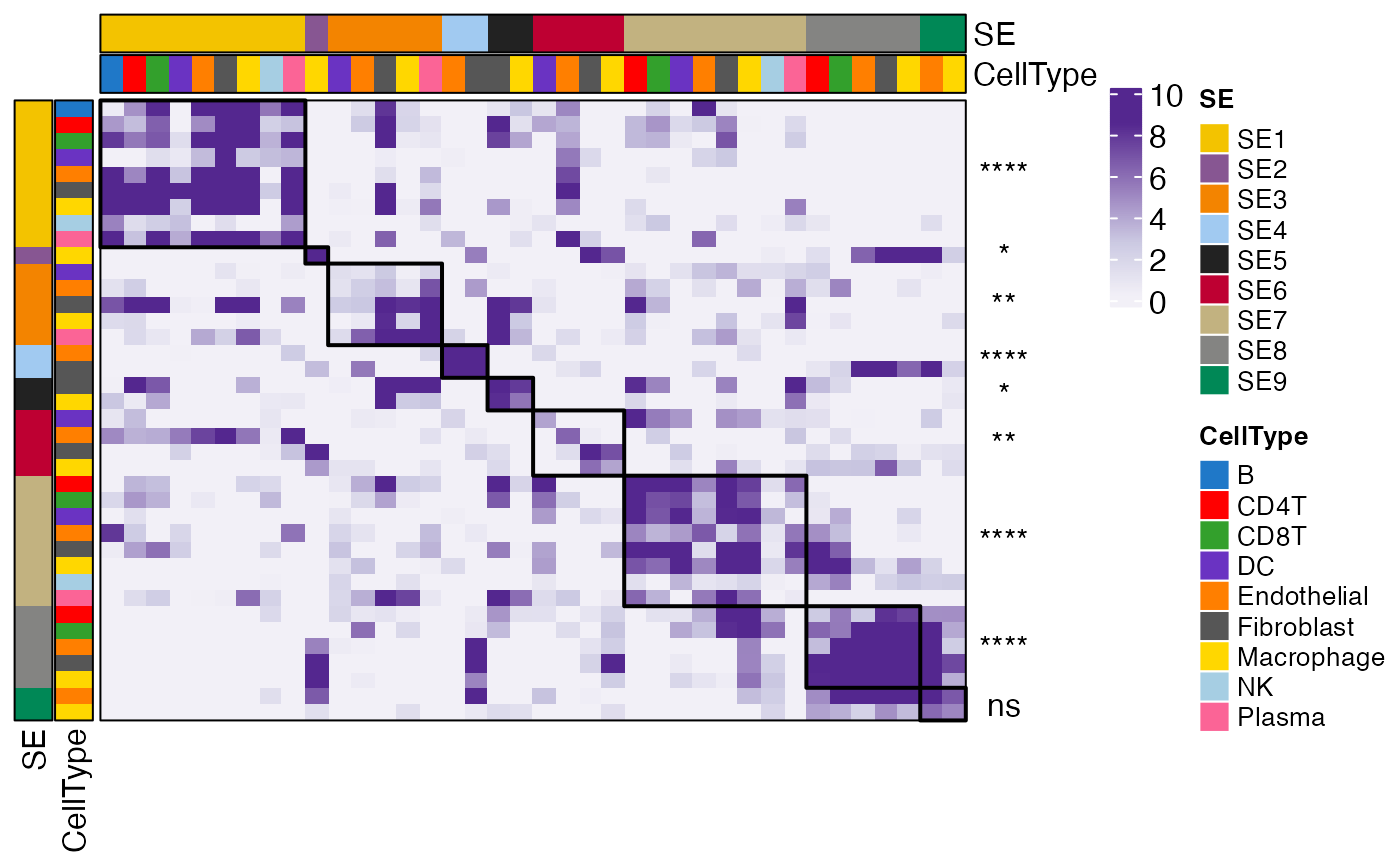
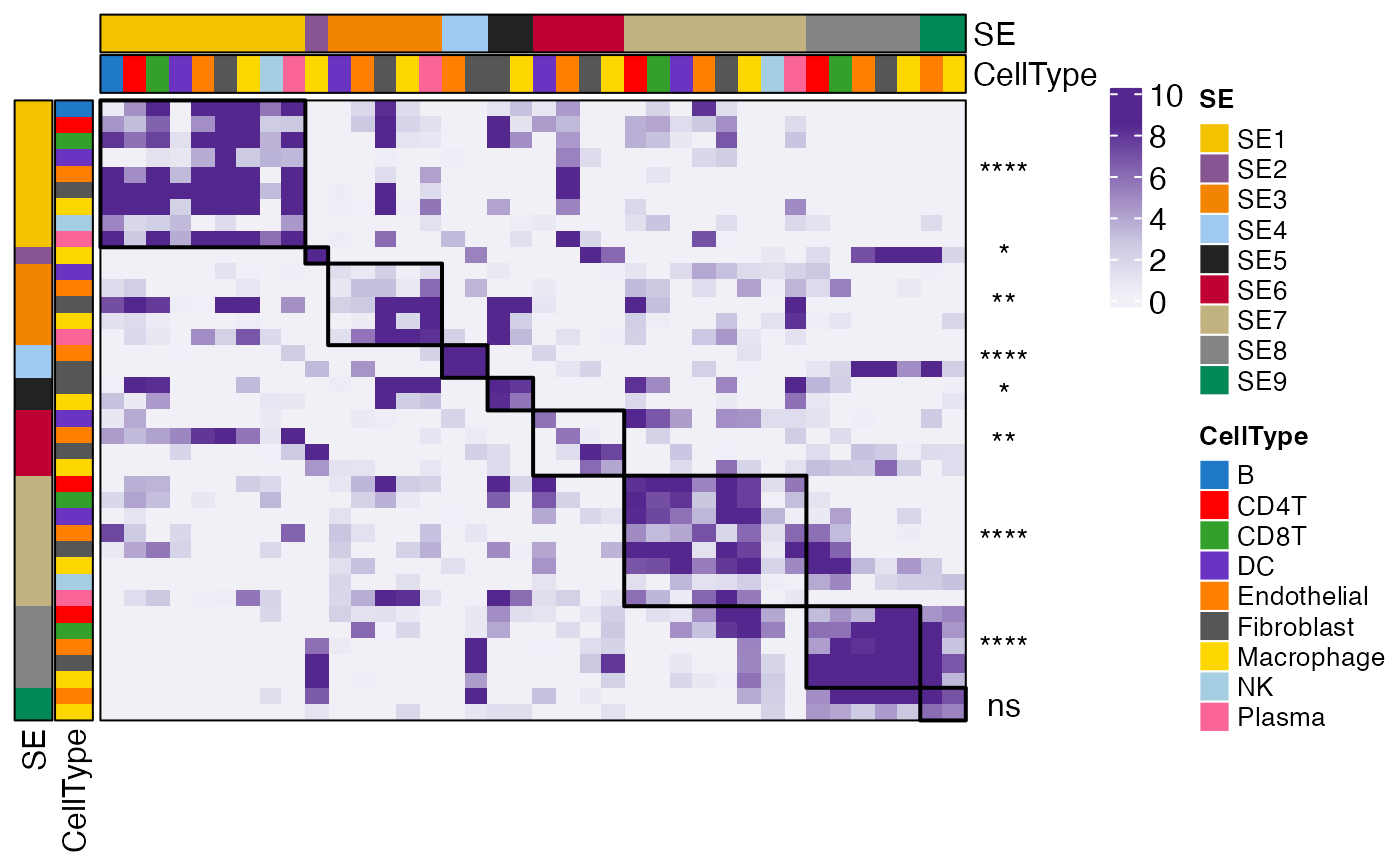
revise the Colocalization function to be more flexible - require CellState as input instead of SE

diff --git a/docs/articles/Recovery_scST.html b/docs/articles/Recovery_scST.html
@@ -274,48 +274,56 @@ of cell state colocalization within each SE and returns a vector of
 p-values.</p>
 <div class="sourceCode" id="cb15"><pre class="downlit sourceCode r">
 <code class="sourceCode R"><span><span class="co"># Verify the four columns required for the analysis.</span></span>
-<span><span class="fu"><a href="https://rdrr.io/r/utils/head.html" class="external-link">head</a></span><span class="op">(</span><span class="va">scmeta</span><span class="op">[</span>, <span class="fu"><a href="https://rdrr.io/r/base/c.html" class="external-link">c</a></span><span class="op">(</span><span class="st">"X"</span>, <span class="st">"Y"</span>, <span class="st">"SE"</span>, <span class="st">"CellType"</span><span class="op">)</span><span class="op">]</span><span class="op">)</span></span></code></pre></div>
-<pre><code><span><span class="co">##                                            X         Y    SE   CellType</span></span>
-<span><span class="co">## HumanColonCancerPatient2__cell_1085 5057.912 -1721.871   SE9 Macrophage</span></span>
-<span><span class="co">## HumanColonCancerPatient2__cell_1205 5035.339 -1783.352 NonSE Macrophage</span></span>
-<span><span class="co">## HumanColonCancerPatient2__cell_1312 5012.093 -1908.390   SE9 Macrophage</span></span>
-<span><span class="co">## HumanColonCancerPatient2__cell_1625 5073.743 -1861.740   SE6 Macrophage</span></span>
-<span><span class="co">## HumanColonCancerPatient2__cell_1629 5030.235 -1867.441   SE7 Macrophage</span></span>
-<span><span class="co">## HumanColonCancerPatient2__cell_1639 5020.448 -1882.751   SE9 Macrophage</span></span></code></pre>
+<span><span class="va">scmeta</span><span class="op">$</span><span class="va">CellState</span> <span class="op">=</span> <span class="fu"><a href="https://rdrr.io/r/base/paste.html" class="external-link">paste0</a></span><span class="op">(</span><span class="va">scmeta</span><span class="op">$</span><span class="va">SE</span>, <span class="st">"_"</span>, <span class="va">scmeta</span><span class="op">$</span><span class="va">CellType</span><span class="op">)</span></span>
+<span><span class="fu"><a href="https://rdrr.io/r/utils/head.html" class="external-link">head</a></span><span class="op">(</span><span class="va">scmeta</span><span class="op">[</span>, <span class="fu"><a href="https://rdrr.io/r/base/c.html" class="external-link">c</a></span><span class="op">(</span><span class="st">"X"</span>, <span class="st">"Y"</span>, <span class="st">"CellType"</span>, <span class="st">"CellState"</span><span class="op">)</span><span class="op">]</span><span class="op">)</span></span></code></pre></div>
+<pre><code><span><span class="co">##                                            X         Y   CellType</span></span>
+<span><span class="co">## HumanColonCancerPatient2__cell_1085 5057.912 -1721.871 Macrophage</span></span>
+<span><span class="co">## HumanColonCancerPatient2__cell_1205 5035.339 -1783.352 Macrophage</span></span>
+<span><span class="co">## HumanColonCancerPatient2__cell_1312 5012.093 -1908.390 Macrophage</span></span>
+<span><span class="co">## HumanColonCancerPatient2__cell_1625 5073.743 -1861.740 Macrophage</span></span>
+<span><span class="co">## HumanColonCancerPatient2__cell_1629 5030.235 -1867.441 Macrophage</span></span>
+<span><span class="co">## HumanColonCancerPatient2__cell_1639 5020.448 -1882.751 Macrophage</span></span>
+<span><span class="co">##                                            CellState</span></span>
+<span><span class="co">## HumanColonCancerPatient2__cell_1085   SE9_Macrophage</span></span>
+<span><span class="co">## HumanColonCancerPatient2__cell_1205 NonSE_Macrophage</span></span>
+<span><span class="co">## HumanColonCancerPatient2__cell_1312   SE9_Macrophage</span></span>
+<span><span class="co">## HumanColonCancerPatient2__cell_1625   SE6_Macrophage</span></span>
+<span><span class="co">## HumanColonCancerPatient2__cell_1629   SE7_Macrophage</span></span>
+<span><span class="co">## HumanColonCancerPatient2__cell_1639   SE9_Macrophage</span></span></code></pre>
 <div class="sourceCode" id="cb17"><pre class="downlit sourceCode r">
 <code class="sourceCode R"><span><span class="co">## For quick test run, 100 permutations were performed to compute the colocalization scores.</span></span>
 <span><span class="va">coloc_res</span> <span class="op">=</span> <span class="fu"><a href="../reference/Colocalization.html">Colocalization</a></span><span class="op">(</span><span class="va">scmeta</span>, coords <span class="op">=</span> <span class="fu"><a href="https://rdrr.io/r/base/c.html" class="external-link">c</a></span><span class="op">(</span><span class="st">"X"</span>, <span class="st">"Y"</span><span class="op">)</span>, </span>
-<span>                           SE <span class="op">=</span> <span class="st">"SE"</span>, CellType <span class="op">=</span> <span class="st">"CellType"</span>,</span>
-<span>                           radius <span class="op">=</span> <span class="fl">50</span>, </span>
+<span>                           CellType <span class="op">=</span> <span class="st">"CellType"</span>,</span>
+<span>                           CellState <span class="op">=</span> <span class="st">"CellState"</span>, </span>
 <span>                           nperm <span class="op">=</span> <span class="fl">100</span>, <span class="co">## 1000 or higher is recommended.</span></span>
 <span>                           test <span class="op">=</span> <span class="cn">TRUE</span>, </span>
 <span>                           ncores <span class="op">=</span> <span class="fl">8</span><span class="op">)</span></span>
 <span><span class="fu"><a href="https://rdrr.io/r/utils/head.html" class="external-link">head</a></span><span class="op">(</span><span class="va">coloc_res</span><span class="op">$</span><span class="va">ColocIndex</span><span class="op">[</span>, <span class="fl">1</span><span class="op">:</span><span class="fl">5</span><span class="op">]</span><span class="op">)</span> <span class="co">## Matrix of colocalization indices between all cell states</span></span></code></pre></div>
-<pre><code><span><span class="co">##                        NonSE_B NonSE_CD4T  NonSE_CD8T   NonSE_DC</span></span>
-<span><span class="co">## NonSE_B             3.34650540 -0.2707164  -3.3502960 -2.7004132</span></span>
-<span><span class="co">## NonSE_CD4T         -0.01287549  2.4311625  -0.8906792 -2.4219334</span></span>
-<span><span class="co">## NonSE_CD8T         -3.13047262 -0.9903922   0.9924283 -2.1475396</span></span>
-<span><span class="co">## NonSE_DC           -2.70951074 -1.9805514  -1.7645476 -0.9794100</span></span>
-<span><span class="co">## NonSE_Endothelial  -1.89724493  1.9774770  -2.1187192  0.9487738</span></span>
-<span><span class="co">## NonSE_Fibroblast  -15.73885563 -2.1847363 -11.3861232  5.1847945</span></span>
+<pre><code><span><span class="co">##                       NonSE_B NonSE_CD4T  NonSE_CD8T  NonSE_DC</span></span>
+<span><span class="co">## NonSE_B             3.5357690 -0.3461065  -2.9449435 -2.722332</span></span>
+<span><span class="co">## NonSE_CD4T         -0.1154154  2.6900657  -0.9080578 -2.340889</span></span>
+<span><span class="co">## NonSE_CD8T         -2.7959631 -1.1275078   1.0467316 -2.289518</span></span>
+<span><span class="co">## NonSE_DC           -2.6631219 -2.0043363  -1.8858252 -1.510015</span></span>
+<span><span class="co">## NonSE_Endothelial  -2.0697733  2.2536112  -2.0176024  1.037851</span></span>
+<span><span class="co">## NonSE_Fibroblast  -14.7564658 -1.7528026 -11.2626831  5.320646</span></span>
 <span><span class="co">##                   NonSE_Endothelial</span></span>
-<span><span class="co">## NonSE_B                   -2.023285</span></span>
-<span><span class="co">## NonSE_CD4T                 2.219099</span></span>
-<span><span class="co">## NonSE_CD8T                -1.793770</span></span>
-<span><span class="co">## NonSE_DC                   1.190721</span></span>
-<span><span class="co">## NonSE_Endothelial          4.142804</span></span>
-<span><span class="co">## NonSE_Fibroblast          10.712091</span></span></code></pre>
+<span><span class="co">## NonSE_B                   -2.197725</span></span>
+<span><span class="co">## NonSE_CD4T                 2.310458</span></span>
+<span><span class="co">## NonSE_CD8T                -1.776670</span></span>
+<span><span class="co">## NonSE_DC                   1.353129</span></span>
+<span><span class="co">## NonSE_Endothelial          3.785008</span></span>
+<span><span class="co">## NonSE_Fibroblast          11.007910</span></span></code></pre>
 <div class="sourceCode" id="cb19"><pre class="downlit sourceCode r">
 <code class="sourceCode R"><span><span class="va">coloc_res</span><span class="op">$</span><span class="va">Pval</span> <span class="co">## Vector of p-values for colocalization significance</span></span></code></pre></div>
 <pre><code><span><span class="co">##        NonSE          SE1          SE2          SE3          SE4          SE5 </span></span>
-<span><span class="co">## 3.016923e-01 3.936888e-06 2.308056e-02 4.946580e-03 1.421065e-12 2.451790e-02 </span></span>
+<span><span class="co">## 2.516621e-01 2.453852e-06 4.506617e-02 6.097215e-03 1.885753e-12 2.205467e-02 </span></span>
 <span><span class="co">##          SE6          SE7          SE8          SE9 </span></span>
-<span><span class="co">## 3.279394e-03 6.543934e-05 6.385358e-05 9.773195e-02 </span></span>
+<span><span class="co">## 2.574582e-03 5.907252e-05 6.056832e-05 1.175217e-01 </span></span>
 <span><span class="co">## attr(,"Zscore")</span></span>
 <span><span class="co">##    NonSE      SE1      SE2      SE3      SE4      SE5      SE6      SE7 </span></span>
-<span><span class="co">## 1.032811 4.614687 2.272098 2.810492 7.081983 2.248915 2.940258 3.992286 </span></span>
+<span><span class="co">## 1.146322 4.711927 2.004036 2.742507 7.042681 2.289425 3.014435 4.016485 </span></span>
 <span><span class="co">##      SE8      SE9 </span></span>
-<span><span class="co">## 3.998098 1.655950</span></span></code></pre>
+<span><span class="co">## 4.010586 1.565261</span></span></code></pre>
 <p>The <a href="../reference/ColocalizationMetaAnalysis.html">ColocalizationMetaAnalysis</a>
 function can be used to perform meta-analysis of cell-state
 colocalization results across samples. It applies Stouffer’s method to
@@ -331,20 +339,20 @@ matrix and a meta P value for each SE.</p>
 <span></span>
 <span><span class="co"># Integrated matrix of cell-state colocalization indices</span></span>
 <span><span class="fu"><a href="https://rdrr.io/r/utils/head.html" class="external-link">head</a></span><span class="op">(</span><span class="va">meta_coloc_res</span><span class="op">$</span><span class="va">MetaColocIndex</span><span class="op">[</span>, <span class="fl">1</span><span class="op">:</span><span class="fl">5</span><span class="op">]</span><span class="op">)</span></span></code></pre></div>
-<pre><code><span><span class="co">##                       NonSE_B NonSE_CD4T NonSE_CD8T  NonSE_DC NonSE_Endothelial</span></span>
-<span><span class="co">## NonSE_B            5.07247839 -0.2903617  -4.432384 -3.711020         -2.932193</span></span>
-<span><span class="co">## NonSE_CD4T         0.08293172  3.3141932  -1.189924 -3.184232          3.355418</span></span>
-<span><span class="co">## NonSE_CD8T        -4.14518968 -1.3311298   1.452172 -2.971578         -2.535319</span></span>
-<span><span class="co">## NonSE_DC          -3.66863721 -2.6905039  -2.429048 -1.394476          1.527815</span></span>
-<span><span class="co">## NonSE_Endothelial -2.81857717  2.9869371  -3.005599  1.220219          5.954284</span></span>
-<span><span class="co">## NonSE_Fibroblast  -7.07106731 -3.0606581  -7.071067  7.071067          7.071067</span></span></code></pre>
+<pre><code><span><span class="co">##                      NonSE_B NonSE_CD4T NonSE_CD8T  NonSE_DC NonSE_Endothelial</span></span>
+<span><span class="co">## NonSE_B            4.6327361 -0.5469483  -4.122838 -4.042305         -2.946965</span></span>
+<span><span class="co">## NonSE_CD4T        -0.2161776  3.4335894  -1.207489 -3.095045          3.461339</span></span>
+<span><span class="co">## NonSE_CD8T        -3.8745361 -1.4576834   1.394502 -3.116616         -2.541385</span></span>
+<span><span class="co">## NonSE_DC          -3.9159820 -2.6032568  -2.602717 -1.863266          1.906699</span></span>
+<span><span class="co">## NonSE_Endothelial -2.8134889  3.2780163  -2.852088  1.481936          6.064004</span></span>
+<span><span class="co">## NonSE_Fibroblast  -7.0710673 -2.4350388  -7.071067  7.071067          7.071067</span></span></code></pre>
 <div class="sourceCode" id="cb23"><pre class="downlit sourceCode r">
 <code class="sourceCode R"><span><span class="co"># Meta-analysis P values</span></span>
 <span><span class="va">meta_coloc_res</span><span class="op">$</span><span class="va">MetaPval</span></span></code></pre></div>
 <pre><code><span><span class="co">##        NonSE          SE1          SE2          SE3          SE4          SE5 </span></span>
-<span><span class="co">## 1.498594e-01 5.233469e-09 5.755518e-05 1.622291e-04 7.552769e-19 2.082041e-03 </span></span>
+<span><span class="co">## 1.231533e-01 3.769972e-09 1.149743e-04 2.011331e-04 4.791326e-19 1.178192e-03 </span></span>
 <span><span class="co">##          SE6          SE7          SE8          SE9 </span></span>
-<span><span class="co">## 6.789380e-05 6.966751e-09 4.958579e-08 1.616658e-02</span></span></code></pre>
+<span><span class="co">## 4.874548e-05 5.897096e-09 5.863796e-08 1.697712e-02</span></span></code></pre>
 <p>You can visualize the results using the <a href="../reference/CooccurrenceHeatmapView.html">CooccurrenceHeatmapView</a>
 function.</p>
 <div class="sourceCode" id="cb25"><pre class="downlit sourceCode r">
